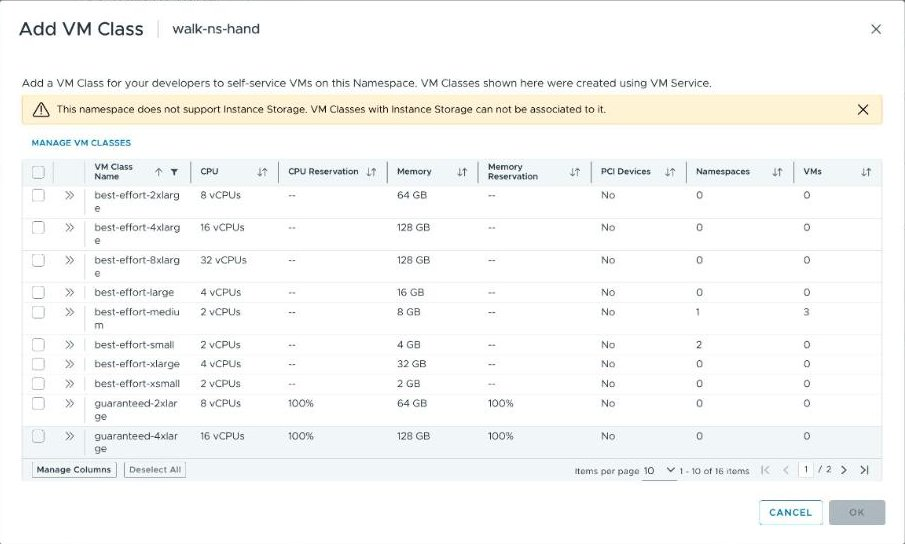
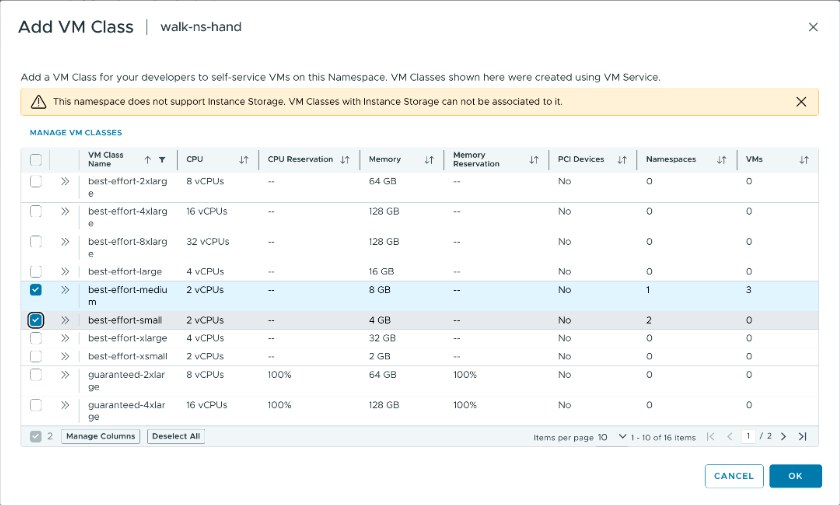
docs(vks): review fixes for the by-hand guides
Two pictures now match their captions (the new-namespace panel, the two
ticked VM classes). The role list's default is called out, the cluster's
size and timing agree with the pictures, and the main guide no longer
opens by sending the reader to an administrator.

diff --git a/vks/CLUSTER-manual.md b/vks/CLUSTER-manual.md
@@ -40,7 +40,7 @@ The main guide's [terms](README.md#learn-the-terms) apply. New here:
   **Resources** tab (step 3 says where to look if the tab is missing). Broadcom's page for it:
   [Provision a Kubernetes cluster using self-service](https://techdocs.broadcom.com/us/en/vmware-cis/vcf/vcf-service-administration-and-development/9-0/managing-vsphere-kuberenetes-service-clusters-and-workloads/provision-and-manage-kubernetes-clusters/provision-a-kubernetes-cluster-using-the-iaas-services-console-in-vcf-automation.html)
   (written for 9.0).
-- Room in the namespace for three virtual machines.
+- Room in the namespace for two virtual machines (one control-plane node and one worker).
 - For steps 7 and 8: the main guide's env file, its tools and its Supervisor login on this
   machine.
 
@@ -140,7 +140,7 @@ tick, and the **Kubernetes Resource YAML** pane on the right changes as you type
    storage yourself, and click **NEXT**. (With **Default Configuration** the next step is
    already **Review and Confirm**.)
 
-   ![The New Kubernetes Cluster page, step 1 Configuration Type: Default Configuration and Custom Configuration, and the Kubernetes Resource YAML pane on the right](img/cluster/05-create-type.jpg)
+   ![The New Kubernetes Cluster page, step 1 Configuration Type: Default Configuration and Custom Configuration, and the Kubernetes Resource YAML pane on the right, as the page opens](img/cluster/05-create-type.jpg)
 
    Step 1 closes and now reads *Cluster Type: Cluster API; Configuration Type: Custom
    Configuration*.
@@ -151,7 +151,7 @@ tick, and the **Kubernetes Resource YAML** pane on the right changes as you type
    - **Cluster Class:** choose the newest `builtin-generic-…` in the list (on the lab,
      `builtin-generic-v3.7.0`).
    - **Kubernetes Release:** choose the release (on the lab, `v1.36.2---vmware.2-vkr.3`).
-   - **VM Class:** a table of the namespace's VM classes, five to a page. Select the class you
+   - **VM Class:** a table of the namespace's VM classes, in pages. Select the class you
      chose in step 2 with the round button at the left of its row.
    - **Storage Class:** choose your storage class in the list (on the lab, `wcp-vmfs`). It is
      for the nodes' own disks.
@@ -177,8 +177,7 @@ tick, and the **Kubernetes Resource YAML** pane on the right changes as you type
 
    **Network** is where the address ranges inside the cluster are changed. The YAML pane shows
    the defaults, `10.95.0.0/16` for pods and `10.96.0.0/12` for services; they must not overlap
-   any network the cluster has to reach (step 2). The walk this guide was written from kept the
-   defaults and did not open **Network**.
+   any network the cluster has to reach (step 2).
 
    ![Step 2 General Settings, lower part: the Storage section open, Persistent Volume Storage with Default Storage Class chosen, the Network section closed, and NEXT](img/cluster/07-create-storage.jpg)
 
@@ -237,7 +236,7 @@ storage class — that value is not one this namespace may use: go back and choo
 **Expect:** **Status** shows **Not Available** while VKS builds the virtual machines, then
 **Available** with a green tick; **Cluster Class** and **Kubernetes Release** show what you
 chose. On a small lab a cluster of one control-plane node and one worker was **Available** after
-about five and a half minutes, with the node image already downloaded. The first cluster of a
+about five minutes, with the node image already downloaded. The first cluster of a
 Kubernetes release takes longer: vCenter downloads that release's node image (several GB) once.
 
 ![The list with the cluster Available, its cluster class, Kubernetes release and age](img/cluster/12-cluster-available.jpg)
@@ -267,11 +266,11 @@ made by hand had the default storage class chosen in step 4 (`wcp-vmfs`).
 
 **By hand, in place of the first of those two blocks:** the cluster row's ⋮ menu (step 8 has
 its picture) has the entry **Download Kubeconfig File**. It saves the cluster's kubeconfig as a
-file in the browser's download folder. <!-- unverified --> Move that file to the path
+file in the browser's download folder. Move that file to the path
 `GUEST_KUBECONFIG` names in your env file and make it readable only by you (`chmod 600`), then
 run the block under [Check the cluster](CLUSTER.md#check-the-cluster). The download does not
 match your `kubectl` to the cluster's version; the block under *Get the cluster's kubeconfig*
-does.
+does. <!-- unverified -->
 
 ## 8. Delete the cluster (optional)
 

diff --git a/vks/NAMESPACE-manual.md b/vks/NAMESPACE-manual.md
@@ -150,8 +150,7 @@ The row of tabs above them reads **Summary**, **Monitor**, **Configure**, **Perm
 **If not:** **NEW NAMESPACE** is greyed out or missing — your user may not create namespaces, or
 no Supervisor is running (step 1). An error about the name — a namespace of that name exists, or
 the name has a character that is not allowed. On a Supervisor with NSX the **Configuration**
-step asks for more network values: take what your network administrator names; this guide was
-not run there.
+step asks for more network values: take what your network administrator names.
 
 ## 4. Give your user a role
 
@@ -166,10 +165,9 @@ permissions card on the **Summary** page.
    **DELETE**. Click **ADD**.
 2. In the **Add Permission** window choose the **Domain** (`vsphere.local` for a user made in
    vCenter itself) and type the user's name in **User/Group**.
-3. Choose the **Role**. The list holds all vCenter roles; the three for a namespace are
-   **Namespaces View**, **Namespaces Edit** and **Namespaces Owner**. **Namespaces Edit** is the
-   *Edit role* these guides name, and is enough for everything in them; **Namespaces Owner** may
-   also delete the namespace with `kubectl`.
+3. Choose the **Role**. The list starts at **Administrator**: change it. It holds all vCenter
+   roles; the three for a namespace are **Namespaces View**, **Namespaces Edit** and
+   **Namespaces Owner**. **Namespaces Edit** is the *Edit role* these guides name.
 4. Leave **Propagate to children** ticked and click **OK**.
 
    ![The Add Permission window: Domain, User/Group, Role, and the ticked box Propagate to children](img/namespace/08-add-permissions.jpg)
@@ -202,14 +200,14 @@ after the policy, and a second one with `-latebinding` at its end (on the lab: `
 
    ![The Add VM Class window: the table of VM classes with CPU and Memory, and best-effort-small and best-effort-medium ticked](img/namespace/10-add-vm-class.jpg)
 
+   The yellow line about *Instance Storage* is a note, not an error.
+
 **Expect:** the **VM Service** card shows *2 Associated VM Classes* (the number you ticked), and
 its link now reads **MANAGE VM CLASSES**.
 
 Do not click **ADD CONTENT LIBRARY**: a guest cluster needs no content library in the
 namespace. Its Kubernetes releases come from the Supervisor's own library, which the
-**Kubernetes Service** card already counts (*1 Associated Content Libraries*). On the lab the
-check in step 8 listed 13 Kubernetes releases and 7 cluster classes for a namespace made this
-way.
+**Kubernetes Service** card already counts (*1 Associated Content Libraries*).
 
 ## 7. Set limits and check the status
 

diff --git a/vks/ARGOCD.md b/vks/ARGOCD.md
@@ -82,12 +82,11 @@ In this order:
    and [Add the new cluster to ArgoCD](ARGOCD-auto.md#8-add-the-new-cluster-to-argocd) with
    scripts. ArgoCD creates the cluster from the chart in
    [`argocd/guest-cluster`](argocd/guest-cluster); it is the same cluster that
-   [CLUSTER.md](CLUSTER.md) creates without ArgoCD.
+   [CLUSTER-auto.md](CLUSTER-auto.md) creates without ArgoCD.
 3. **Deploy this web app with it.** [Deploy golang-web with ArgoCD](ARGOCD-app.md) has ArgoCD
    deploy this repository's app into a guest cluster, whichever way that cluster was created.
-4. **The vSphere Namespace is not created with ArgoCD.** A Supervisor has no declarative object
-   for a vSphere Namespace. Where Namespace Self-Service is on, a `Namespace` created through
-   the Supervisor's Kubernetes API becomes one
+4. **The vSphere Namespace is not created with ArgoCD.** Where Namespace Self-Service is on, a
+   `Namespace` created through the Supervisor's Kubernetes API becomes one
    ([NAMESPACE-auto.md](NAMESPACE-auto.md#create-it-with-kubectl-namespace-self-service)), and
    creating it from an ArgoCD Application has not been run. So the guides create the namespace
    first ([NAMESPACE.md](NAMESPACE.md)) and ArgoCD works inside it.

diff --git a/vks/README.md b/vks/README.md
@@ -56,8 +56,6 @@ to do. [TROUBLESHOOTING.md](TROUBLESHOOTING.md) lists the errors by their text.
 
 ## Gather what you need
 
-Ask your platform administrator for what the table lists.
-
 | you need | used in |
 |---|---|
 | Supervisor endpoint, vCenter DNS name, vSphere Namespace, guest cluster name | [Set the variables](#set-the-variables) |
@@ -66,7 +64,7 @@ Ask your platform administrator for what the table lists.
 | a Broadcom support account that can download VMware vSphere Foundation 9 | [Install the VCF CLI and its plugins](SETUP.md#install-the-vcf-cli-and-its-plugins) |
 | sudo rights on this machine | [Install the tools](#install-the-tools) |
 
-What you were not given, you can look up or make. A vCenter administrator finds the
+Every value can be looked up or made. A vCenter administrator finds the
 Supervisor's address and vCenter's CA in the vSphere Client
 ([NAMESPACE-manual.md](NAMESPACE-manual.md#1-find-the-supervisor-its-address-and-vcenters-ca)
 shows where), and makes a vSphere Namespace with [NAMESPACE.md](NAMESPACE.md) and a guest
